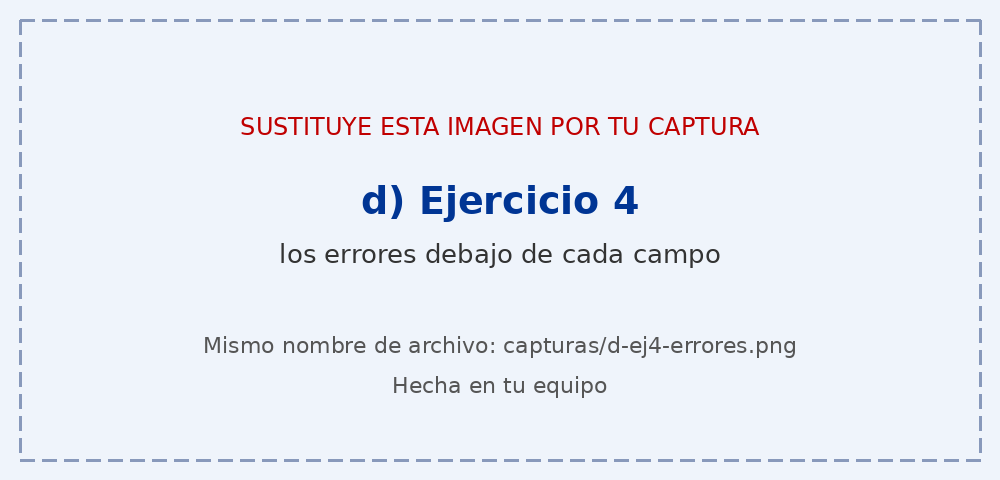
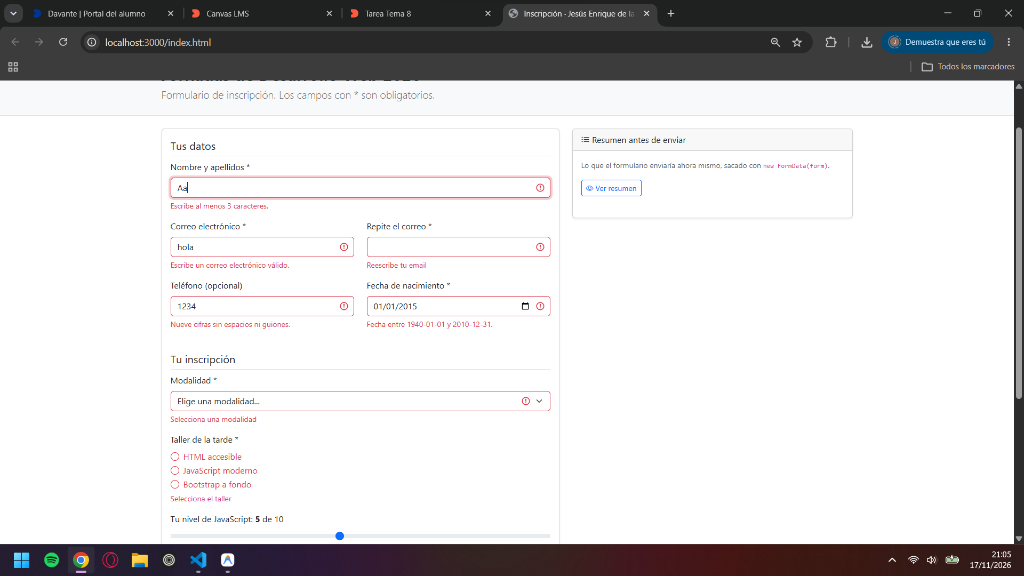
Terminado tarea 6, añadido captura y escrito parcial del README

diff --git a/tema08/js/app.js b/tema08/js/app.js
@@ -1,15 +1,6 @@
-/*
+/*
   Tarea 8 · DWEC · Jesús Enrique de la Torre Jiménez
-  Formulario de inscripción.
-
-  Cómo usar esta plantilla:
-  · Escribe tu código donde pone TODO y, cuando termines, borra el TODO.
-  · Los ejercicios 1 a 3 son HTML: el formulario se valida y se envía solo, sin JavaScript.
-  · Desde el ejercicio 4, la validación la haces tú: añade novalidate al <form>.
-  · Los errores se escriben debajo de cada campo con mostrarError(); nada de alert().
-  · Como en el tema 7: flechas en los callbacks. Dentro de ellos, this NO es el formulario:
-    usa e.target o la constante form.
-  · let y const, nunca var. Compara siempre con ===. Comillas rectas.
+  Formulario de inscripción: validación con JavaScript, eventos de los campos y resumen con FormData.
 */
 
 console.log("app.js cargado");
@@ -22,7 +13,6 @@ const form = document.querySelector("#inscripcion");
 // Cada campo está en un <div class="mb-3"> con su <div class="invalid-feedback">
 // ============================================================
 
-// Ya está hecha: es el modelo
 function mostrarError(campo, mensaje) {
   campo.classList.add("is-invalid");                         // borde rojo de Bootstrap
   const aviso = campo.closest(".mb-3").querySelector(".invalid-feedback");
@@ -71,18 +61,17 @@ function mensajeDe(campo) {
   } else if (validez.customError) {
     mensaje = campo.validationMessage;
   }
-
   return mensaje;
 }
 
 
 // ============================================================
 // Ejercicio 4 · La validación al enviar
-// Hasta que llegues a este ejercicio, deja la función vacía: el formulario se enviará solo
 // ============================================================
 
 form.addEventListener("submit", (e) => {
   e.preventDefault();
+  console.log("Submit: empiezo a validar");
   comprobarCorreos();
   const campos = e.target.querySelectorAll("input, select, textarea");
   let primerError = null;
@@ -99,10 +88,12 @@ form.addEventListener("submit", (e) => {
   });
 
   if (primerError) {
+    console.log(`Hay errores. El primero está en: ${primerError.id}`);
     primerError.focus();
     return;
   }
 
+  console.log("Todo correcto: envío el formulario por GET");
   e.target.submit();
 });
 
@@ -131,6 +122,7 @@ const email2 = document.querySelector("#email2");
 function comprobarCorreos() {
   if (email2.value !== "" && email.value !== email2.value) {
     email2.setCustomValidity("Los dos correos no coinciden.");
+    console.log("Los correos no coinciden");
   } else {
     email2.setCustomValidity("");
   }
@@ -138,13 +130,15 @@ function comprobarCorreos() {
 
 email.addEventListener("input", () => {
   comprobarCorreos();
+  // Al corregir el primer correo, el error de "Repite el correo" debe desaparecer si ya coinciden
+  if (email2.checkValidity()) {
+    quitarError(email2);
+  }
 });
 
 email2.addEventListener("input", () => {
   comprobarCorreos();
 });
-
-
 
 form.querySelectorAll("input, select, textarea").forEach((campo) => {
   campo.addEventListener("input", () => {
@@ -156,6 +150,8 @@ form.querySelectorAll("input, select, textarea").forEach((campo) => {
 
 
 form.addEventListener("reset", () => {
+  console.log("Reset: quito errores y vuelvo a poner contador y nivel");
+  email2.setCustomValidity("");
   form.querySelectorAll("input, select, textarea").forEach((campo) => {
     quitarError(campo);
   });
@@ -167,8 +163,25 @@ form.addEventListener("reset", () => {
 // Ejercicio 6 · Resumen con FormData
 // ============================================================
 
-// TODO: con el evento "click" de #verResumen:
-//       · const datos = new FormData(form);
-//       · recórrelo con for (const [campo, valor] of datos) y pinta un <li class="list-group-item"> por par
-//         en #resumen (createElement y textContent; si el valor está vacío, «(vacío)»);
-//       · escribe en #avisoResumen cuántos datos hay y por qué falta «Repite el correo».
+const verResumen = document.querySelector("#verResumen");
+const avisoResumen = document.querySelector("#avisoResumen");
+const resumen = document.querySelector("#resumen");
+
+verResumen.addEventListener("click", () => {
+  const datos = new FormData(form);
+  let total = 0;
+
+  // Vaciamos la lista para no duplicar datos en cada click
+  resumen.replaceChildren();
+
+  for (const [campo, valor] of datos) {
+    const li = document.createElement("li");
+    li.classList.add("list-group-item");
+    li.textContent = `${campo}: ${valor === "" ? "(vacío)" : valor}`;
+    resumen.appendChild(li);
+    total++;
+  }
+
+  console.log(`Resumen: ${total} datos`);
+  avisoResumen.textContent = `Hay ${total} datos. «Repite el correo» no aparece porque su campo no tiene name.`;
+});

diff --git a/tema08/index.html b/tema08/index.html
@@ -9,23 +9,10 @@
   <link href="https://cdn.jsdelivr.net/npm/bootstrap@5.3.8/dist/css/bootstrap.min.css" rel="stylesheet">
   <!-- Iconos de Bootstrap -->
   <link href="https://cdn.jsdelivr.net/npm/bootstrap-icons@1.13.1/font/bootstrap-icons.min.css" rel="stylesheet">
-  <!-- Tu JavaScript. Con defer, espera a que se lea todo el HTML antes de ejecutarse: no lo quites -->
+  <!-- JavaScript propio (defer: se ejecuta cuando el HTML ya está leído) -->
   <script src="js/app.js" defer></script>
 </head>
 <body>
-
-  <!--
-    PLANTILLA DE LA TAREA 8
-    · Esta vez el formulario lo maquetas tú: aquí solo tienes el primer campo, «nombre», como modelo.
-    · Todos los campos siguen el mismo esquema:
-        <div class="mb-3">                                  ← un div por campo
-          <label for="ID" class="form-label">…</label>      ← for = el id del campo
-          <input … id="ID" name="NOMBRE" class="form-control">
-          <div class="invalid-feedback"></div>              ← aquí escribirá app.js el error
-        </div>
-    · Los id que usa el JavaScript están en el enunciado: respétalos.
-    · Todo lo que va entre [corchetes] es un hueco: sustitúyelo por lo tuyo.
-  -->
 
   <!-- NAVBAR con tu nombre -->
   <nav class="navbar bg-primary" data-bs-theme="dark">
@@ -55,7 +42,6 @@
               <fieldset class="mb-4">
                 <legend class="fs-5 border-bottom pb-1">Tus datos</legend>
 
-                <!-- EL MODELO: un campo completo, con sus atributos de validación (ejercicio 2) -->
                 <div class="mb-3">
                   <label for="nombre" class="form-label">Nombre y apellidos *</label>
                   <input type="text" id="nombre" name="nombre" class="form-control" autocomplete="name"

diff --git a/tema08/js/recibido.js b/tema08/js/recibido.js
@@ -10,9 +10,7 @@ console.log("recibido.js cargado");
 console.log("Ha llegado:", location.search);
 
 // URLSearchParams la separa en pares nombre → valor y decodifica las tildes y los espacios.
-// El modelo: un dato suelto, por su name
 const parametros = new URLSearchParams(location.search);
-console.log("nombre =", parametros.get("nombre"));
 
 const consulta = document.querySelector("#consulta"); 
 const datos = document.querySelector("#datos"); 

diff --git a/tema08/README.md b/tema08/README.md
@@ -19,19 +19,19 @@
 
 <img src="capturas/a-pagina.png" alt="El formulario vacío con mi nombre en la navbar" width="600">
 
-[Tu nombre y el formulario completo, con sus dos fieldset.]
+En la captura vemos el nombre y el formulario completo con dos fieldsets.
 
 ### b) Ejercicio 2: el mensaje del navegador
 
 <img src="capturas/b-ej2-navegador.png" alt="El mensaje del navegador sobre un campo" width="600">
 
-[Qué campo falla y qué dice el navegador. Qué pasó al quitar un required desde F12 y por qué hay que validar también en el servidor.]
+El campo que falla es el primero de Nombre y apellidos al ser obligatorio y no estar relleno. Cuando quitamos la propiedad required desde la consola de desarrollador, los datos se envian aun estando vacios. Es por ello que tenemos que siempre validar los datos del servidor ya que las restricciones puestas en el front-end son sujetas a modificaciones por el usuario.
 
 ### c) Ejercicio 3: lo que llega por GET
 
 <img src="capturas/c-ej3-recibido.png" alt="recibido.html con los datos en la URL y en una tabla" width="600">
-
-[Con la barra de direcciones a la vista. Qué viaja en la URL, qué campo no llega y por qué nunca mandarías una contraseña por GET.]
+ 
+Al hacer un GET, se mandan todos los datos del formulario por la URL, a excepción del campo de repetir el correo que lo eliminamos antes de enviarlo. Nunca enviaríamos una contraseña porque sería visible en la barra de direcciones y estaria expuesta a ataques.
 
 ### d) Ejercicio 4: los errores, junto a cada campo
 
@@ -46,13 +46,11 @@
 [El contador y el nivel después de escribir, el error de los correos y el resumen de FormData.]
 
 ## Reflexión
+ 
+Al validar los datos desde JavaScript y no solo con el navegador podemos comprobar antes de enviar al servidor fallos complejos propios del tipo de campo como contraseñas con complejidad y facilitar al usuario introducir datos correctos. Aun así, las verificaciones hechas antes del envio al back-end son para ayudar al usuario y no sirven como comprobación ya que estas puedes ser sujetas a ser editadas por el usuario, insertando datos no validos. 
 
-[De 5 a 8 líneas: ¿qué ganas validando con JavaScript en vez de dejarlo al navegador? ¿Por qué ni una ni otra bastan sin validar también en el servidor? ¿Qué pasa con `this` si el manejador del submit es una flecha?]
-
-## Fuentes
-
-- [Título de la página](https://enlace-a-la-fuente)
+Si intentamos usar `this` en el manejador del submit usando una función flecha, nos da un fallo. Este tipo de función no puede llamar sus atributos con `this`, hay que utilizar otros metodos de (e) en este caso.
 
 ## Uso de IA
 
-[Si has usado IA: qué herramienta, para qué y qué hiciste después con su respuesta. Si no la has usado, borra este apartado.]
+Se ha hecho uso de Gemini 3.8 para la elaboración del README, comprobación de posibles errores en el código y como ayuda externa para la realización.
